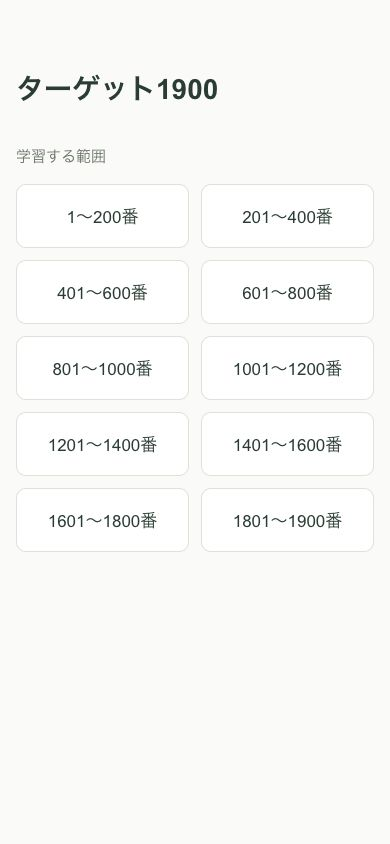
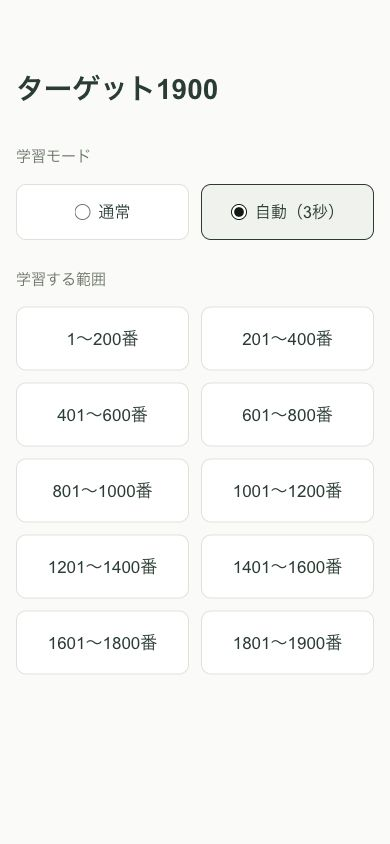
ホームから選べる3秒ごとの自動学習モードを追加

diff --git a/src/app/globals.css b/src/app/globals.css
@@ -14,10 +14,18 @@ button:focus-visible, a:focus-visible { outline: 3px solid #8fa879; outline-offs
 .home-screen { width: min(520px, calc(100% - 32px)); margin: 0 auto; padding: clamp(32px, 8svh, 80px) 0 calc(24px + env(safe-area-inset-bottom)); }
 .home-screen h1 { font-size: 28px; font-weight: 600; margin: 0 0 36px; }
 .home-screen h2 { font-size: 15px; font-weight: 500; color: var(--muted); margin: 0 0 16px; }
+.mode-selector { padding: 0; border: 0; margin: 0 0 28px; min-width: 0; }
+.mode-selector legend { padding: 0; font-size: 15px; color: var(--muted); margin-bottom: 16px; }
+.mode-options { display: grid; grid-template-columns: repeat(2, minmax(0, 1fr)); gap: 12px; }
+.mode-option { display: flex; align-items: center; justify-content: center; gap: 8px; min-height: 56px; padding: 12px 8px; border: 1px solid var(--line); border-radius: 10px; background: #fff; font-size: 16px; cursor: pointer; }
+.mode-option input { width: 16px; height: 16px; margin: 0; accent-color: var(--ink); }
+.mode-option:has(input:checked) { border-color: var(--ink); background: #eff3ec; }
+.mode-option:has(input:focus-visible) { outline: 3px solid #8fa879; outline-offset: 4px; }
 .range-grid { display: grid; grid-template-columns: repeat(2, minmax(0, 1fr)); gap: 12px; }
 .range-option { display: grid; place-items: center; min-height: 64px; padding: 12px; background: #fff; border: 1px solid var(--line); border-radius: 10px; font-size: 17px; font-variant-numeric: tabular-nums; }
 .study-screen { container-type: inline-size; width: min(720px, calc(100% - 32px)); min-height: 100vh; min-height: 100svh; margin: 0 auto; display: flex; flex-direction: column; padding-top: max(24px, env(safe-area-inset-top)); padding-bottom: calc(clamp(18px, 6svh, 64px) + env(safe-area-inset-bottom)); }
 .study-content { flex: 1; width: 100%; display: flex; flex-direction: column; align-items: center; justify-content: center; padding: 24px 0; text-align: center; min-height: 230px; }
+.study-screen.is-auto { padding-bottom: max(24px, env(safe-area-inset-bottom)); }
 .english-word { max-width: 100%; margin: 0; font-size: 64px; font-size: clamp(28px, calc(160cqw / var(--word-length, 6)), 88px); font-weight: 500; letter-spacing: -.035em; line-height: 1.15; overflow-wrap: anywhere; }
 .meaning-area { width: 100%; min-height: 96px; margin-top: 28px; }
 .meaning { margin: 0; color: #c62828; font-size: 20px; line-height: 1.8; overflow-wrap: anywhere; }
@@ -49,4 +57,6 @@ button:focus-visible, a:focus-visible { outline: 3px solid #8fa879; outline-offs
   .english-word { font-size: clamp(26px, calc(80cqw / var(--word-length, 6)), 56px); }
   .meaning { font-size: 17px; }
   .meaning-area { min-height: 60px; margin-top: 20px; }
+  .study-screen.is-auto { flex-direction: column; }
+  .is-auto .english-word { font-size: clamp(26px, calc(160cqw / var(--word-length, 6)), 56px); }
 }

diff --git a/src/components/study-session.tsx b/src/components/study-session.tsx
@@ -1,14 +1,22 @@
 "use client";
 
 import Link from "next/link";
-import { useState, type CSSProperties } from "react";
-import { advanceStudy, INITIAL_STUDY_STATE, type StudyWord } from "@/lib/study";
+import { useEffect, useState, type CSSProperties } from "react";
+import { advanceStudy, advanceAutoStudy, AUTO_ADVANCE_MS, getInitialStudyState, type StudyMode, type StudyWord } from "@/lib/study";
 import { splitMeaning } from "@/lib/meaning";
 
-export function StudySession({ words }: { words: StudyWord[] }) {
-  const [state, setState] = useState(INITIAL_STUDY_STATE);
+export function StudySession({ words, mode }: { words: StudyWord[]; mode: StudyMode }) {
+  const [state, setState] = useState(() => getInitialStudyState(mode));
   const current = words[state.index];
   const actionLabel = state.complete ? "もう一度学習する" : !state.revealed ? "意味を見る" : state.index + 1 === words.length ? "完了する" : "次の単語へ";
+
+  useEffect(() => {
+    if (mode !== "auto" || state.complete) return;
+    const timer = window.setTimeout(() => {
+      setState((previous) => advanceAutoStudy(previous, words.length));
+    }, AUTO_ADVANCE_MS);
+    return () => window.clearTimeout(timer);
+  }, [mode, state.index, state.complete, words.length]);
 
   return (
     <>
@@ -17,7 +25,7 @@ export function StudySession({ words }: { words: StudyWord[] }) {
           <path d="M19 12H5m7-7-7 7 7 7" stroke="currentColor" strokeWidth="1.8" strokeLinecap="round" strokeLinejoin="round" />
         </svg>
       </Link>
-      <main className="study-screen" aria-label="英単語の学習">
+      <main className={`study-screen${mode === "auto" && !state.complete ? " is-auto" : ""}`} aria-label="英単語の学習">
         <div className="study-content" id="word-content" aria-live="polite" aria-atomic="true">
           {state.complete ? <h1 className="completion-title">完了</h1> : <>
             <h1 className="english-word" lang="en" style={{ "--word-length": current.word.length } as CSSProperties}>{current.word}</h1>
@@ -28,11 +36,11 @@ export function StudySession({ words }: { words: StudyWord[] }) {
             </div>
           </>}
         </div>
-        <div className="study-controls">
-          <button type="button" className="study-button" aria-controls="word-content" onClick={() => setState((previous) => advanceStudy(previous, words.length))}>
+        {(mode === "manual" || state.complete) && <div className="study-controls">
+          <button type="button" className="study-button" aria-controls="word-content" onClick={() => setState((previous) => previous.complete ? getInitialStudyState(mode) : advanceStudy(previous, words.length))}>
             {actionLabel}
           </button>
-        </div>
+        </div>}
       </main>
     </>
   );

diff --git a/src/lib/study.ts b/src/lib/study.ts
@@ -10,7 +10,17 @@ export const STUDY_RANGES = Array.from({ length: Math.ceil(TOTAL_WORDS / WORDS_P
 export type StudyRange = (typeof STUDY_RANGES)[number];
 export type StudyWord = { id: string; number: number; word: string; meaning: string };
 export type StudyState = { index: number; revealed: boolean; complete: boolean };
+export type StudyMode = "manual" | "auto";
+export const AUTO_ADVANCE_MS = 3000;
 export const INITIAL_STUDY_STATE: StudyState = { index: 0, revealed: false, complete: false };
+
+export function getStudyMode(mode?: string | string[]): StudyMode {
+  return mode === "auto" ? "auto" : "manual";
+}
+
+export function getInitialStudyState(mode: StudyMode): StudyState {
+  return { ...INITIAL_STUDY_STATE, revealed: mode === "auto" };
+}
 
 export function getRange(start?: string | string[]): StudyRange {
   return STUDY_RANGES.find((range) => String(range.start) === start) ?? STUDY_RANGES[0];
@@ -21,4 +31,10 @@ export function advanceStudy(state: StudyState, total: number): StudyState {
   if (!state.revealed) return { ...state, revealed: true };
   if (state.index + 1 >= total) return { ...state, complete: true };
   return { index: state.index + 1, revealed: false, complete: false };
+}
+
+export function advanceAutoStudy(state: StudyState, total: number): StudyState {
+  if (state.complete) return state;
+  if (state.index + 1 >= total) return { ...state, revealed: true, complete: true };
+  return { index: state.index + 1, revealed: true, complete: false };
 }

diff --git a/src/components/home-menu.tsx b/src/components/home-menu.tsx
@@ -1,0 +1,36 @@
+"use client";
+
+import Link from "next/link";
+import { useState } from "react";
+import { STUDY_RANGES, type StudyMode } from "@/lib/study";
+
+export function HomeMenu() {
+  const [mode, setMode] = useState<StudyMode>("manual");
+
+  return (
+    <main className="home-screen">
+      <h1>ターゲット1900</h1>
+      <fieldset className="mode-selector">
+        <legend>学習モード</legend>
+        <div className="mode-options">
+          <label className="mode-option">
+            <input type="radio" name="study-mode" value="manual" checked={mode === "manual"} onChange={() => setMode("manual")} />
+            通常
+          </label>
+          <label className="mode-option">
+            <input type="radio" name="study-mode" value="auto" checked={mode === "auto"} onChange={() => setMode("auto")} />
+            自動（3秒）
+          </label>
+        </div>
+      </fieldset>
+      <h2>学習する範囲</h2>
+      <nav className="range-grid" aria-label="学習する範囲">
+        {STUDY_RANGES.map((range) => (
+          <Link className="range-option" href={`/study?start=${range.start}${mode === "auto" ? "&mode=auto" : ""}`} key={range.start}>
+            {range.start}〜{range.end}番
+          </Link>
+        ))}
+      </nav>
+    </main>
+  );
+}

diff --git a/src/app/study/page.tsx b/src/app/study/page.tsx
@@ -1,10 +1,12 @@
 import { StudySession } from "@/components/study-session";
 import { getStudyWords } from "@/lib/words";
-import { getRange } from "@/lib/study";
+import { getRange, getStudyMode } from "@/lib/study";
 
 export default async function StudyPage({ searchParams }: {
-  searchParams: Promise<{ start?: string | string[] }>;
+  searchParams: Promise<{ start?: string | string[]; mode?: string | string[] }>;
 }) {
-  const range = getRange((await searchParams).start);
-  return <StudySession key={range.start} words={getStudyWords(range)} />;
+  const params = await searchParams;
+  const range = getRange(params.start);
+  const mode = getStudyMode(params.mode);
+  return <StudySession key={`${range.start}-${mode}`} words={getStudyWords(range)} mode={mode} />;
 }

diff --git a/src/app/page.tsx b/src/app/page.tsx
@@ -1,18 +1,5 @@
-import Link from "next/link";
-import { STUDY_RANGES } from "@/lib/study";
+import { HomeMenu } from "@/components/home-menu";
 
 export default function Home() {
-  return (
-    <main className="home-screen">
-      <h1>ターゲット1900</h1>
-      <h2>学習する範囲</h2>
-      <nav className="range-grid" aria-label="学習する範囲">
-        {STUDY_RANGES.map((range) => (
-          <Link className="range-option" href={`/study?start=${range.start}`} key={range.start}>
-            {range.start}〜{range.end}番
-          </Link>
-        ))}
-      </nav>
-    </main>
-  );
+  return <HomeMenu />;
 }

diff --git a/README.md b/README.md
@@ -3,14 +3,16 @@
 Next.jsで作った、ターゲット1900（6訂版）のシンプルな英単語アプリ。1900語は `src/data/target1900.json` に同梱し、ローカルファイルから読み込みます。起動・ビルドにDBや接続用の環境変数は不要です。
 
 - ホームで1〜200、201〜400、…、1601〜1800、1801〜1900の10区分から選択。
+- ホームで「通常」「自動（3秒）」の学習モードを選択。
 - 範囲を選ぶと専用の学習ページ `/study?start=...` に移動。
-- 学習画面は英単語・赤文字の意味・学習ボタン・左上のホームに戻る左矢印アイコンだけ。意味は項目ごとに改行し、括弧内の注釈はまとめて表示。
-- 学習ボタン1つで「意味を見る → 次の単語へ」を繰り返す。
-- 範囲の最後に「完了」を表示し、同じボタンで再学習。
+- 通常モードの学習画面は英単語・赤文字の意味・学習ボタン・左上のホームに戻る左矢印アイコンだけ。意味は項目ごとに改行し、括弧内の注釈はまとめて表示。
+- 通常モードは学習ボタン1つで「意味を見る → 次の単語へ」を繰り返す。
+- 自動モードでは単語と意味を最初から表示し、1単語3秒で次へ進む。学習中の操作ボタンは表示せず、範囲の最後で停止する。
+- 範囲の最後に「完了」を表示し、「もう一度学習する」で同じモードを再学習。
 
 長い英単語は画面幅と文字数に応じて文字を縮め、日本語の意味は折り返して表示します。スマホ・iPadに対応し、学習ボタンは56px以上の高さです。スマホの横向きでは単語と操作ボタンを左右に並べます。
 
-画面例: [ホーム](docs/preview-home.jpg) / [スマホ](docs/preview-phone.jpg) / [iPad](docs/preview-ipad.jpg) / [PC](docs/preview.jpg)
+画面例: [ホーム](docs/preview-home.jpg) / [自動モード](docs/preview-auto.jpg) / [スマホ](docs/preview-phone.jpg) / [iPad](docs/preview-ipad.jpg) / [PC](docs/preview.jpg)
 
 学習中の位置は画面を開いている間だけ保持します。ホームへ戻って選び直した場合や再読み込み時は、選択した範囲の最初に戻ります。
 
@@ -52,7 +54,7 @@ npm run build
 npm start
 ```
 
-テストは同梱データの1900件と各区分の読み込み、ボタンの状態遷移、HTML抽出の異常検出、ローカルファイル更新時のID維持と不正データの拒否を検証します。
+テストは同梱データの1900件と各区分の読み込み、通常・自動モードの状態遷移と完了後の停止、HTML抽出の異常検出、ローカルファイル更新時のID維持と不正データの拒否を検証します。
 
 `.env`で始まるファイルはすべてGitの対象から除外しています。GitHubへ送る前に`npm run check:secrets`でGitの登録ファイルを確認できます。
 
